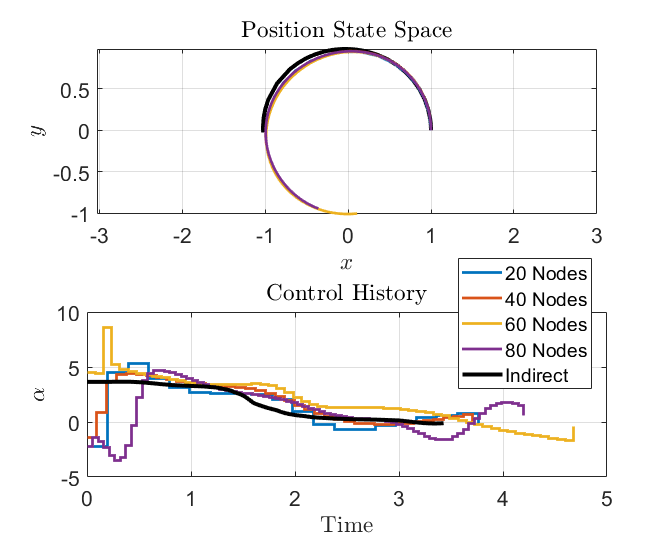
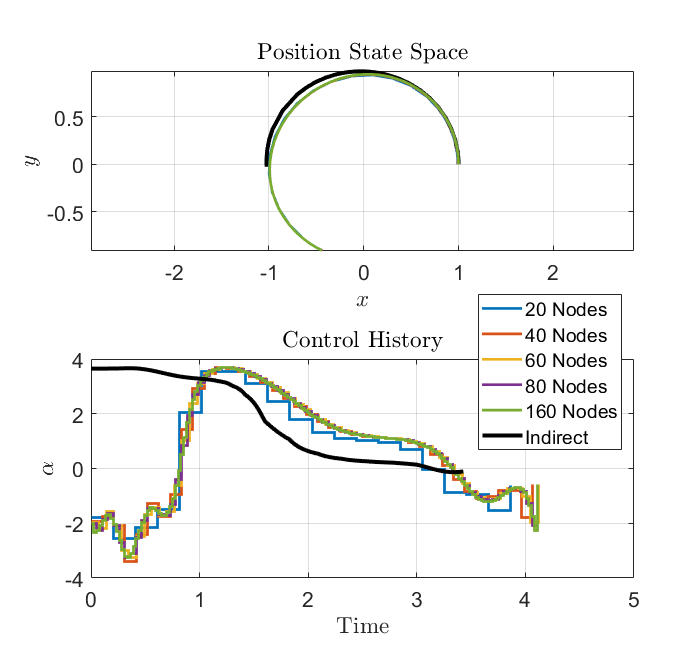
Ref #3 Fixed a problem in the cost
I was minimizing final mass instead of maximizing it. Yall have permission to give me crap

diff --git a/code/direct_fcn.m b/code/direct_fcn.m
@@ -4,7 +4,7 @@ function [alpha, alpha_t, tf, sol] = direct_fcn(Chaser,...
 yinit = [Nav.r; Nav.theta; Nav.rdot; Nav.thetadot];
 ICsolver0 = [tf_rel_guess];
 
-options = optimset('Algorithm','sqp','display','off', 'TolCon', 1e-12);
+options = optimset('Algorithm','sqp','display','off', 'TolCon', 1e-16);
 
 options.Nodes = N;
 

diff --git a/code/direct_bcs.m b/code/direct_bcs.m
@@ -16,7 +16,7 @@ PSI = [(X0(1) - Nav.r);
     Xf(1) - Target.r0;
     Xf(2) - Target.thetadot0*(tf_rel+t0) - Target.theta0;
     Xf(3) - Target.rdot0;
-    Xf(4) - Target.thetadot0]*10;
+    Xf(4) - Target.thetadot0]*2;
 %     Yf(6)*Target.thetadot0 - Yf(5:8)'*dYf_dtf(1:4) - 1;
 %     tf_rel - slack^2];
 return

diff --git a/code/direct_main.m b/code/direct_main.m
@@ -120,7 +120,7 @@ count = 0;
 %   section of it that corresponds to our flight time between
 %   observations
 
-node_cases = [20,40,60,80];
+node_cases = [20,40,60,80,160];
 
 switch(lower(sim_opt.optim))
     case 'direct'

diff --git a/code/direct_cost.m b/code/direct_cost.m
@@ -4,6 +4,6 @@ tf_rel = params(1);
 Chaser = consts.Chaser;
 mfinal = Chaser.m0 - Chaser.mdot*t(end)*tf_rel;
 
-J = mfinal;
+J = -mfinal;
 end
 
